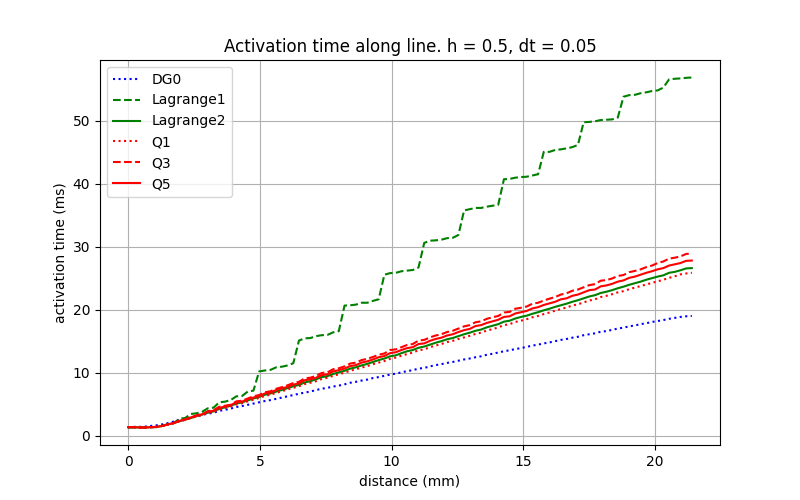
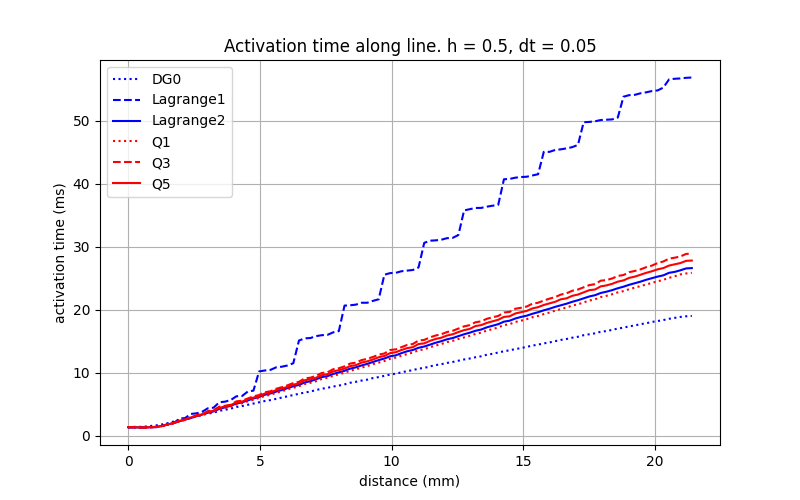
Ran benchmark for h=0.1 for P1, P2, Q1, DG0

diff --git a/demos_ep/niederer.py b/demos_ep/niederer.py
@@ -139,38 +139,26 @@ def read_file_plot_line(h, dt):
                 color, linestyle = "r", "-"
             case "DG0":
                 color, linestyle = "b", ":"
-            case "DG1":
-                continue
+            case "Lagrange1":
                 color, linestyle = "b", "--"
+            case "Lagrange2":
+                color, linestyle = "b", "-"
+            case "DG1": # Skip DG1, DG2, as these are the same as L1, L2
+                continue
             case "DG2":
                 continue
-                color, linestyle = "b", "-"
-            case "Lagrange1":
-                color, linestyle = "g", "--"
-            case "Lagrange2":
-                color, linestyle = "g", "-"
         ax.plot(dist, activation_time_line, label=element.name, color=color, linestyle=linestyle)
     ax.set_ylabel("activation time (ms)")
     ax.set_xlabel("distance (mm)")
     ax.grid(True)
     ax.set_title(f"Activation time along line. h = {h}, dt = {dt}")
     ax.legend()
-    fig.savefig(f"lineplot_h={h}_dt={dt}.png")
+    save_to_file = f"saved_figures/lineplot_h={h}_dt={dt}.png"
+    fig.savefig(save_to_file)
 
-h = 0.1
-dt = 0.05
-ode_elements = [("Lagrange", 2), ("Q", 1), ("Q", 3), ("Q", 5)]
-T = 45
-
-for ode_element in ode_elements:
-    solve_model_problem(h, dt, ode_element, T)
-    logger.info(f"Solved for element {ode_element}")
-
-read_file_plot_line(0.5, 0.05)
-read_file_plot_line(0.5, 0.01)
-read_file_plot_line(0.2, 0.05)
 read_file_plot_line(0.1, 0.05)
-
+read_file_plot_line(0.2, 0.05)
+read_file_plot_line(0.5, 0.05)
 
 # def profile():
 #     ep_solver, Lx, Ly, Lz = get_model_problem(h, dt, ode_element)

diff --git a/src/nmcemfem/monodomain.py b/src/nmcemfem/monodomain.py
@@ -375,6 +375,9 @@ class MonodomainSolver:
 
         while self.t.value <= T and np.min(times_points) < 0:
             self.step()
+            if self.domain.comm.rank == 0:
+                logger.info(f"Solved for t = {np.round(self.t.value, 3)}")
+
             evaluated_points = self.pde.v_pde.eval(points_on_proc, cells_points)
             for i in range(len(points_on_proc)):
                 if times_points_on_proc[i] < 0 and evaluated_points[i] > 0:
